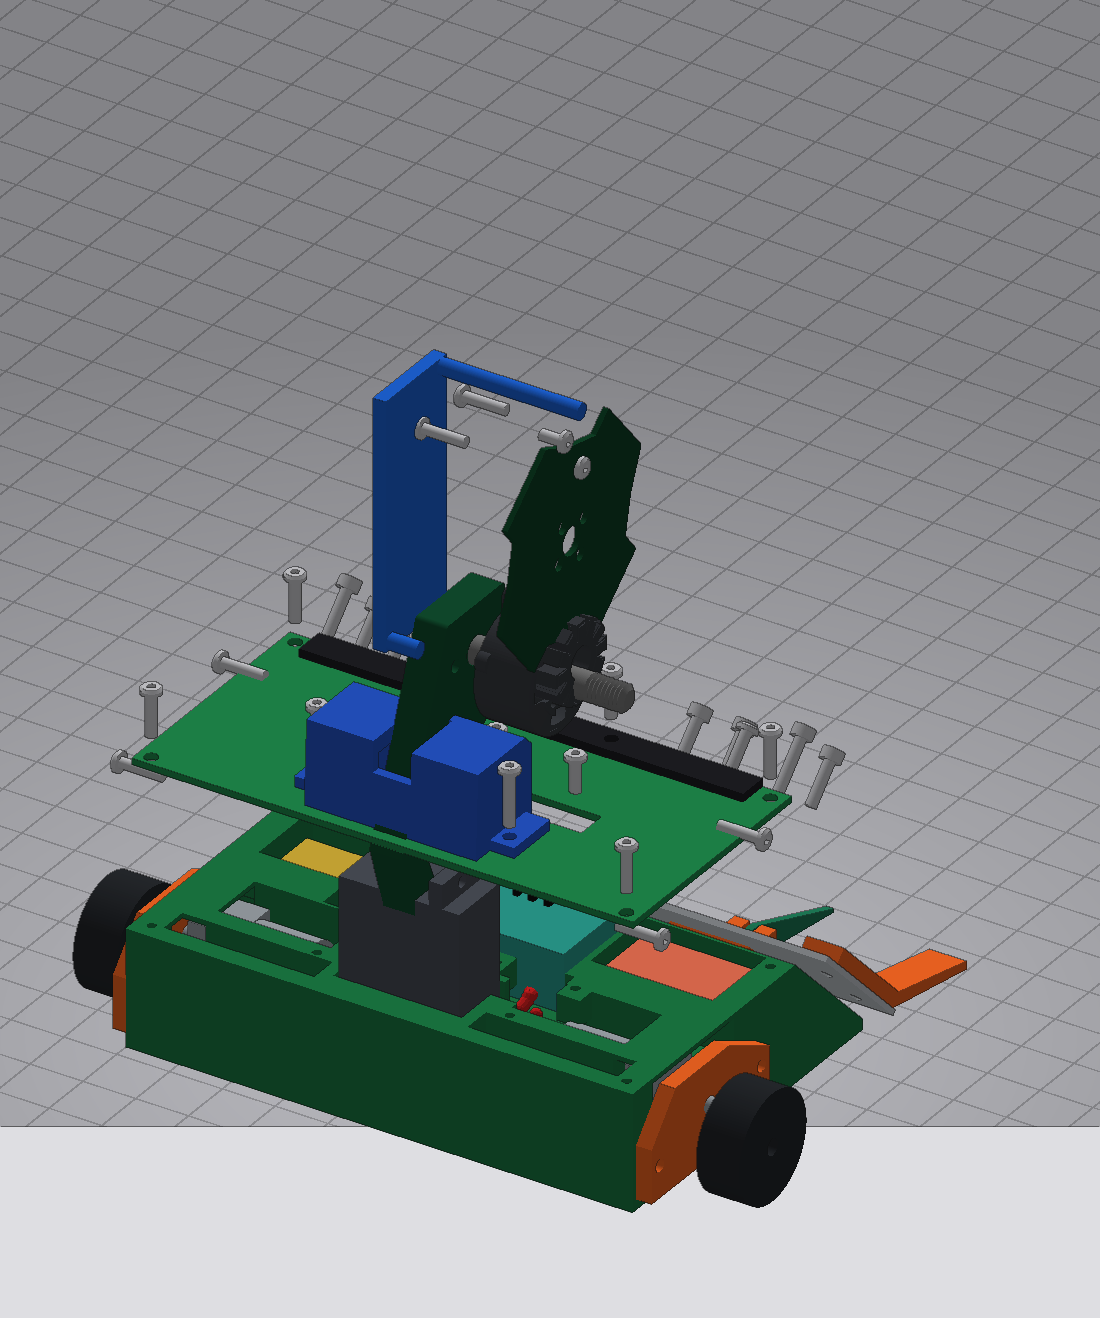
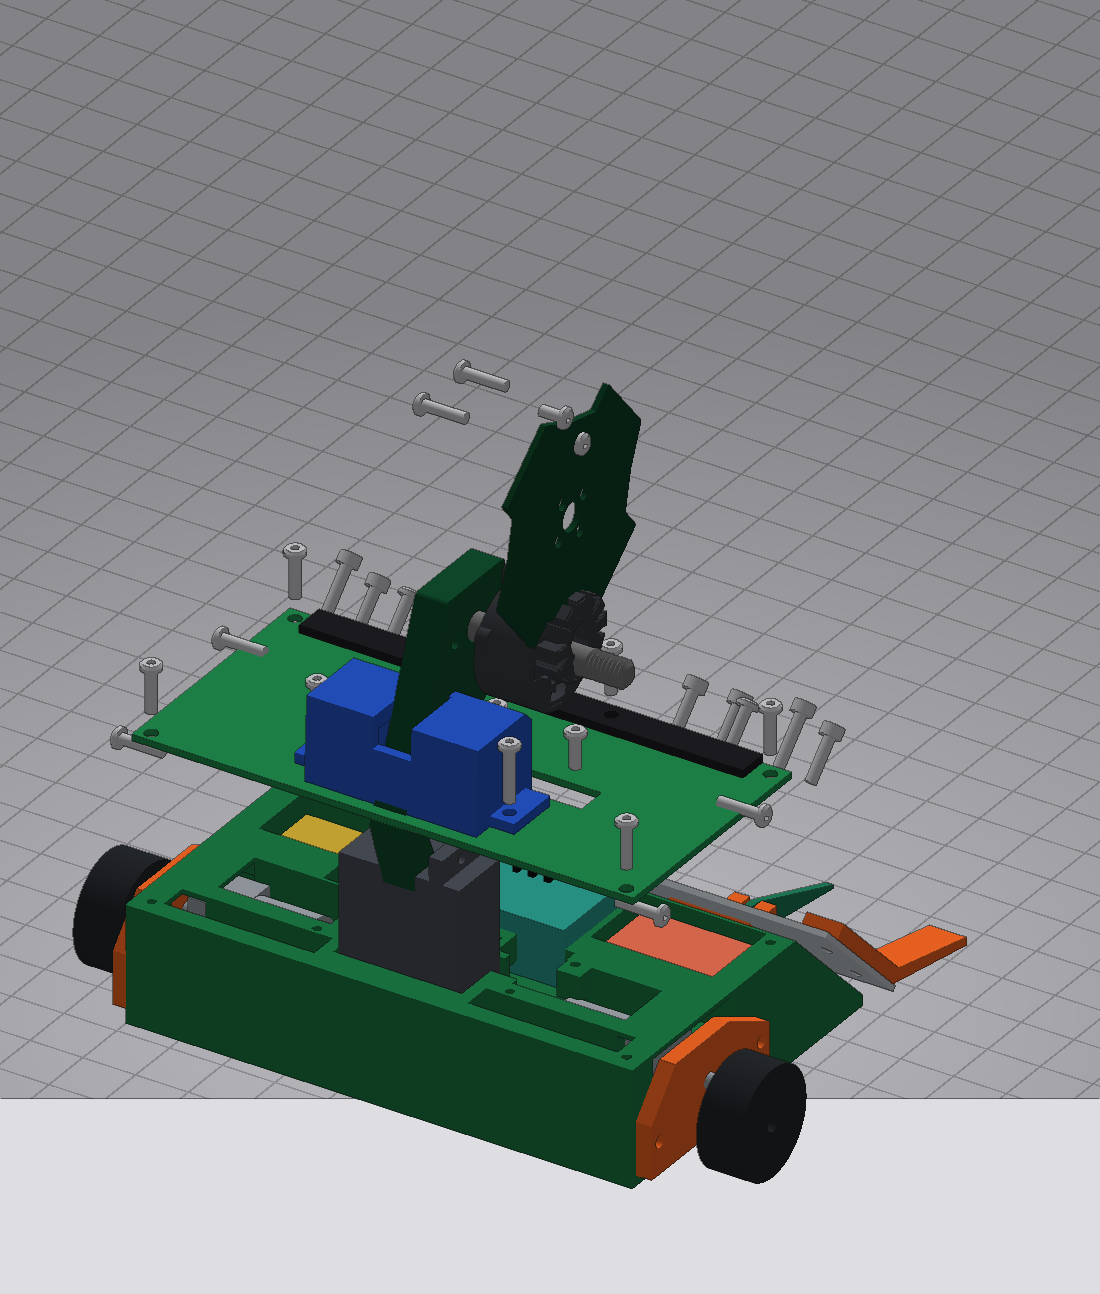
disector: remove locking_bar from spinner and attach reference image

Changed region(s): [[0.0, 0.0, 1.0, 0.8655], [0.0, 0.711, 0.3709, 0.8655], [0.34, 0.6801, 0.3709, 0.711]]

diff --git a/robots/disector/src/disector/make_spec.py b/robots/disector/src/disector/make_spec.py
@@ -30,7 +30,6 @@ def build(part: str):
         "arm": weapon.build_arm,
         "weapon_shaft": weapon.build_weapon_shaft,
         "disc": weapon.build_disc,
-        "locking_bar": weapon.build_locking_bar,
     }
     if part not in builders:
         raise ValueError(f"Unknown part: {part}")
@@ -410,7 +409,6 @@ def make_spec() -> dict:
         {"a": "weapon_motor_bell", "b": "weapon_motor_stator", "method": "shaft", "reason": "Motor bell spins on stator shaft bearings"},
         {"a": "weapon_shaft", "b": "weapon_motor_bell", "method": "press_fit", "interference_mm": 0.05, "mechanical_key": True, "reason": "GR1507 5 mm steel shaft pressed into motor bell"},
         {"a": "disc", "b": "weapon_motor_bell", "method": "screw", "reason": "Titanium saw disc bolted directly to motor bell"},
-        {"a": "locking_bar", "b": "arm", "method": "pin", "reason": "Removable safety pin locks into arm and blocks saw disc rotation during pit handling"},
         {"a": "motor_l", "b": "tub", "method": "snap", "reason": "Left N10 gearmotor captured in pocket under top panel"},
         {"a": "motor_r", "b": "tub", "method": "snap", "reason": "Right N10 gearmotor captured in pocket under top panel"},
         {"a": "wheel_l", "b": "motor_l", "method": "press_fit", "interference_mm": 0.1, "reason": "Left wheel press-fit onto 3 mm D-shaft"},
